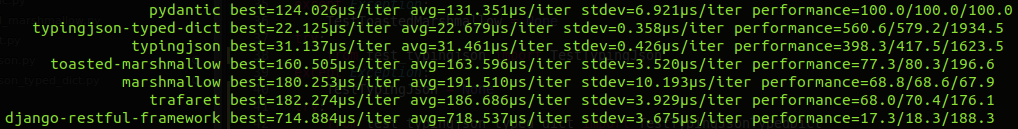
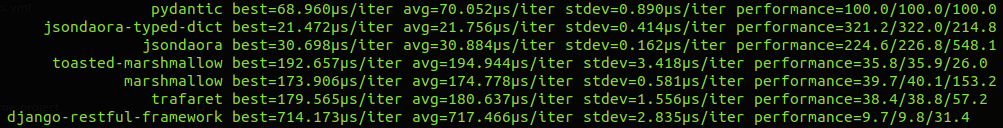
Deployed 6d0b24e with MkDocs version: 1.0.4

diff --git a/index.html b/index.html
@@ -856,8 +856,8 @@ b&#39;{&quot;age&quot;:40}&#39;
 
 
 <h2 id="wins-pydantic-benchmark">Wins <a href="https://github.com/samuelcolvin/pydantic">Pydantic</a> Benchmark</h2>
-<p><code>jsondaora</code> is up to <em>5.6 times</em> faster than pydantic on it's benchmark</p>
-<p><img alt="pydantic benchmark" src="https://dutradda.github.io/jsondaora/benchmark.png" title="Pydantic Benchmark" /></p>
+<p><code>jsondaora</code> is up to <em>3.2 times</em> faster than pydantic on it's benchmark</p>
+<p><img alt="pydantic benchmark" src="benchmark.png" title="Pydantic Benchmark" /></p>
                 
                   
                 
